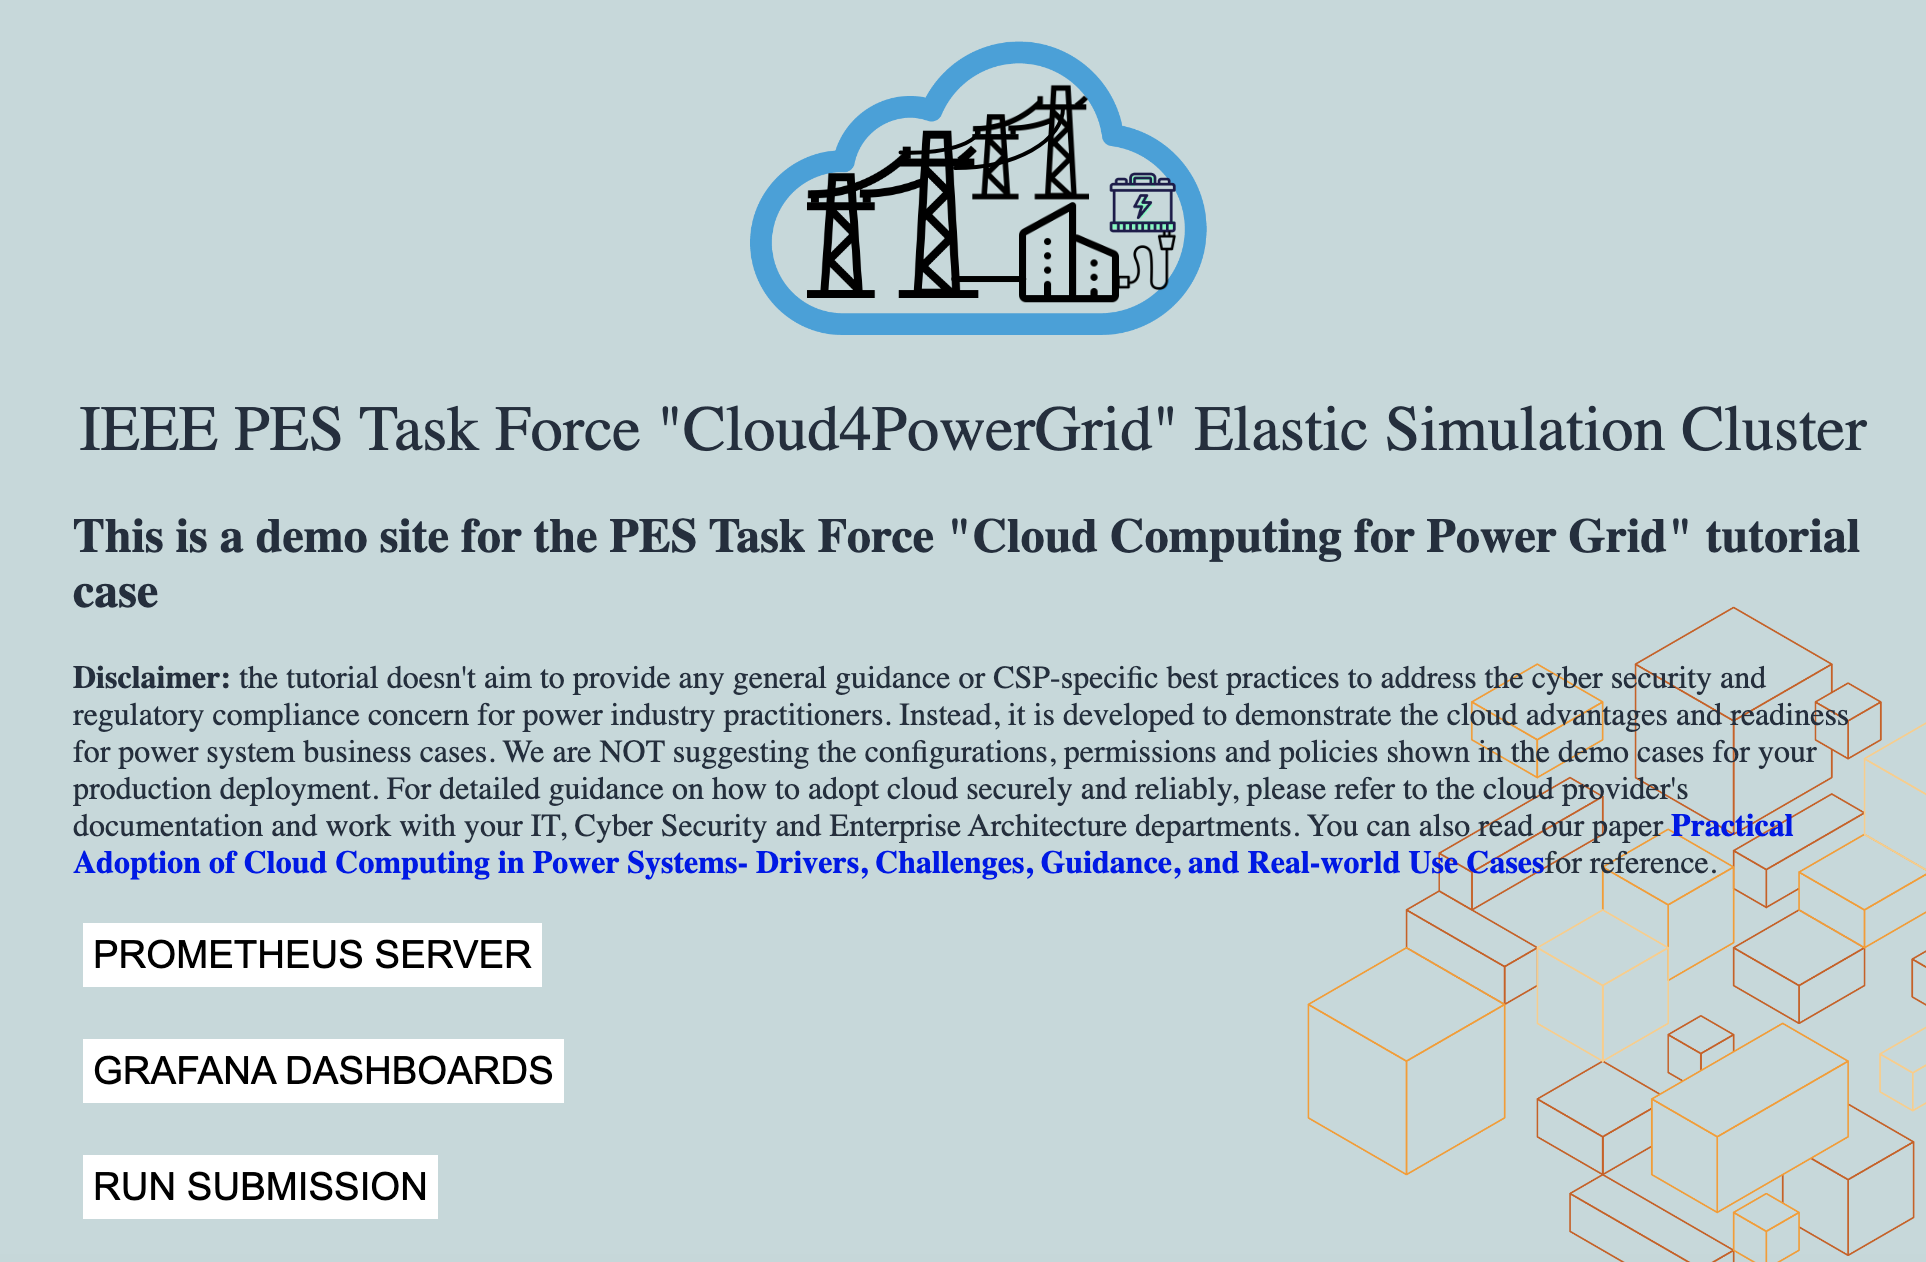
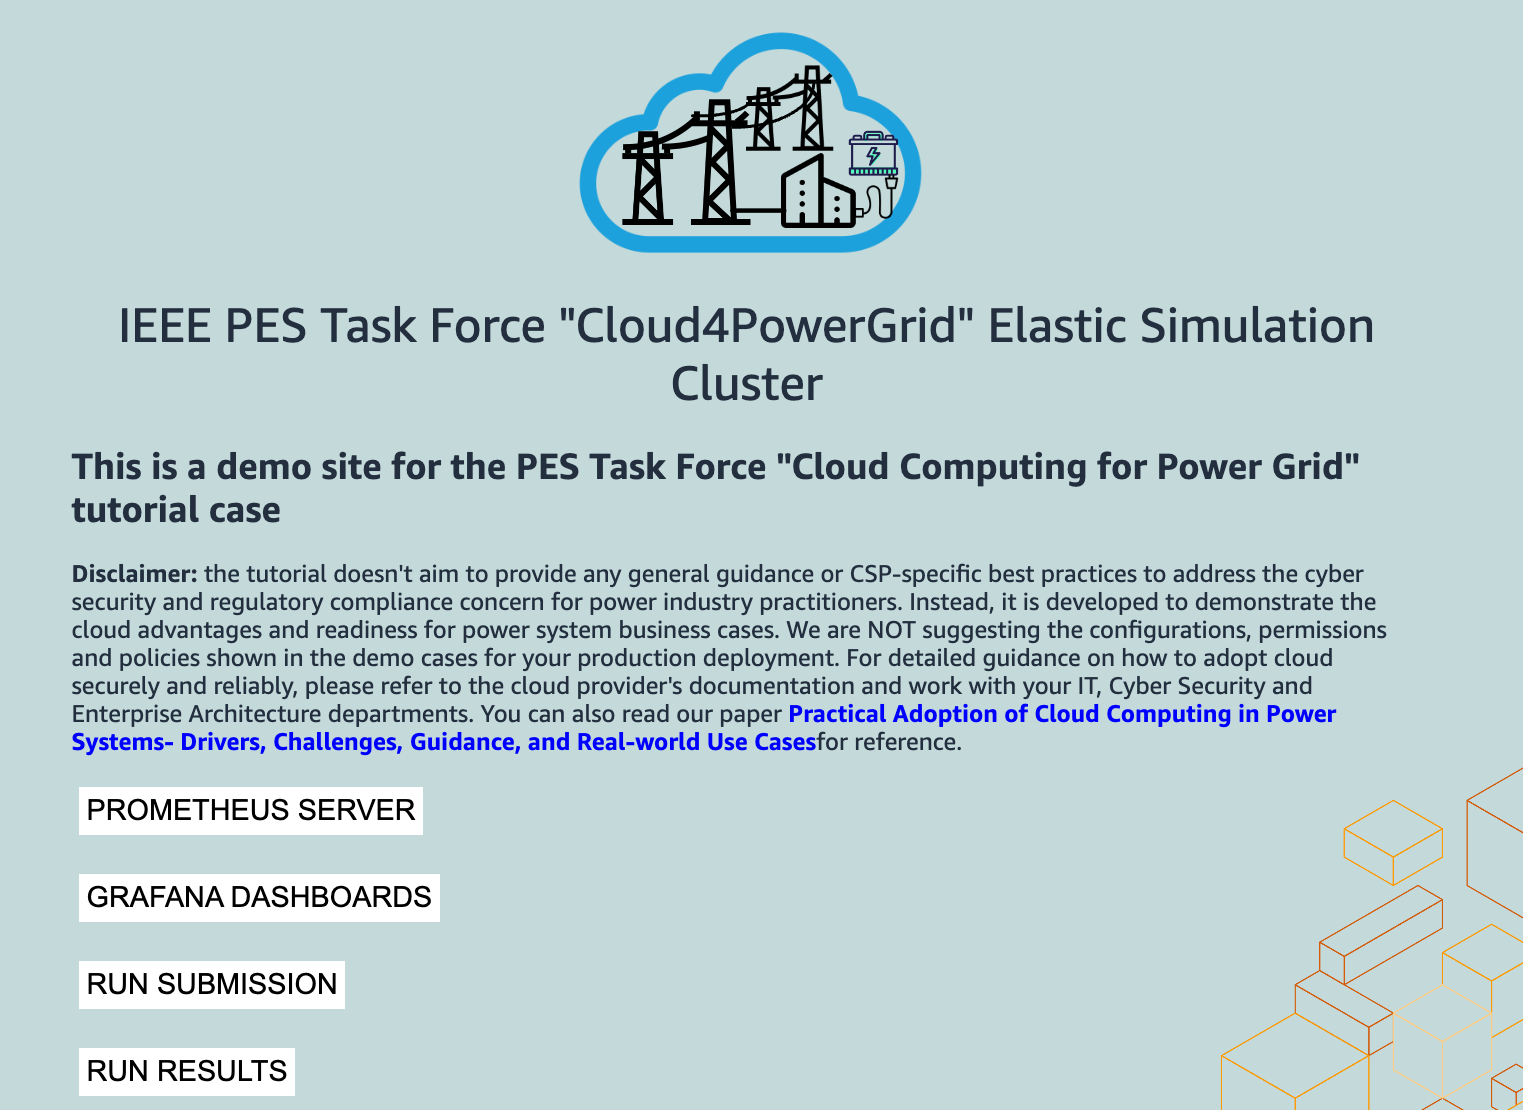
update the GUI pictures

diff --git a/README.md b/README.md
@@ -11,6 +11,9 @@
 ![Job pending](docs/JobPending.png?raw=true "Job pending after run submitted")
 ![Job in progress](docs/JobInProgress.png?raw=true "Job under execution on running nodes")
 
+## Run Results View/Download Page
+![Run results page](docs/RunResults.png?raw=true "View/download run results")
+
 
 # Grafana Dashboard for AWS ParallelCluster (from aws-samples repo) 
 
